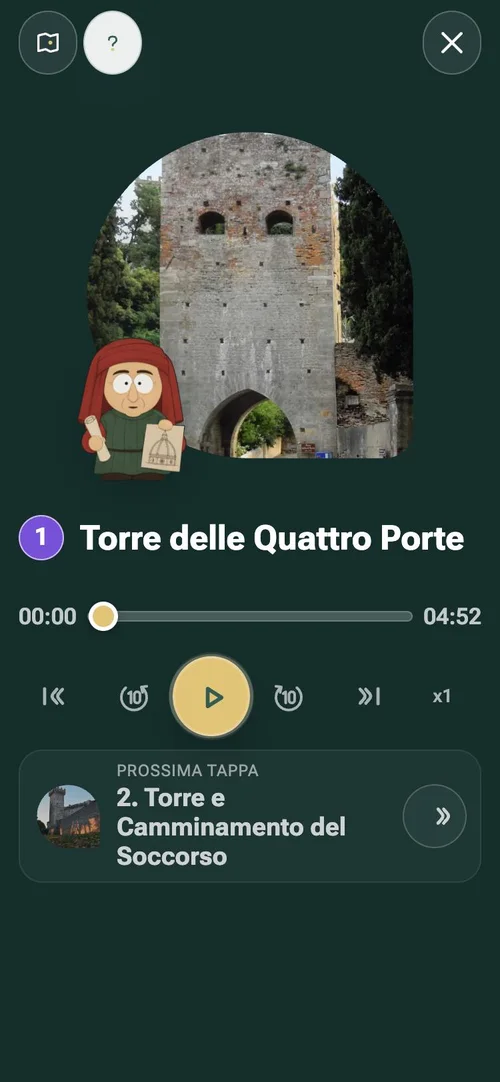
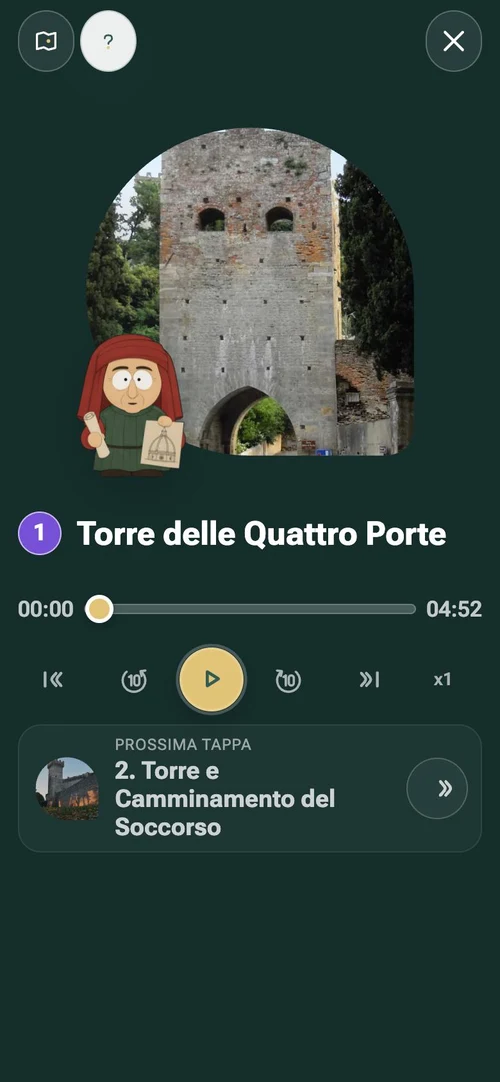
Telefoni: home, mappa e player aggiornati senza numeri; problemi su oro con numeri viola; team senza sottotitolo; una sola call to action sulle lingue

diff --git a/index.html b/index.html
@@ -678,6 +678,12 @@ img { display: block; max-width: 100%; }
   .phone, .phone--mid { flex: 0 0 68vw; width: 68vw; max-width: 300px; scroll-snap-align: center; }
 }
 
+/* ---------- problemi: oro del brand, numeri viola ---------- */
+#problemi { background: #e8c36d; }
+#problemi .eyebrow { color: #245c52; }
+#problemi .stat__num { color: #7d4fe0; }
+#problemi .stat__text, #problemi .problem__note, #problemi .stat__src { color: #173f39; }
+#problemi .problem + .problem { border-left-color: rgba(23,63,57,.35); }
 /* ---------- voci in tutte le lingue ---------- */
 .voices { display: grid; grid-template-columns: repeat(3, minmax(0, 1fr)); gap: 1rem; margin-top: 1.5rem; }
 .voice { background: #fff8ef; border-radius: 24px; padding: 1rem 1.1rem 1.1rem; }
@@ -770,14 +776,14 @@ img { display: block; max-width: 100%; }
         </p>
       </div>
       <div class="phones">
-        <figure class="phone"><div class="phone__frame"><img src="assets/app-lingua.webp" alt="Scelta della lingua all'avvio" width="500" height="1083" loading="lazy"></div><figcaption><span>1</span>Scegli la lingua</figcaption></figure>
-        <figure class="phone phone--mid"><div class="phone__frame"><img src="assets/app-mappa.webp" alt="Mappa con le tappe e player audio" width="500" height="1083" loading="lazy"></div><figcaption><span>2</span>Tocca una tappa</figcaption></figure>
-        <figure class="phone"><div class="phone__frame"><img src="assets/app-player.webp" alt="Player audio a schermo intero con la tappa" width="500" height="1083" loading="lazy"></div><figcaption><span>3</span>Ascolta e cammina</figcaption></figure>
+        <figure class="phone"><div class="phone__frame"><img src="assets/app-home.webp" alt="La home del percorso di Vicopisano, con Brunelleschi che dà il benvenuto" width="500" height="1082" loading="lazy"></div></figure>
+        <figure class="phone phone--mid"><div class="phone__frame"><img src="assets/app-mappa.webp" alt="La mappa con le tappe e il player audio" width="500" height="1082" loading="lazy"></div></figure>
+        <figure class="phone"><div class="phone__frame"><img src="assets/app-player.webp" alt="Il player audio a schermo intero con la prima tappa" width="500" height="1082" loading="lazy"></div></figure>
       </div>
     </div>
   </section>
 
-  <section class="section section--tinted" id="problemi">
+  <section class="section" id="problemi">
     <div class="wrap">
       <div class="section__head">
         <p class="eyebrow">Il problema</p>
@@ -785,7 +791,6 @@ img { display: block; max-width: 100%; }
       </div>
       <div class="problems">
         <article class="problem">
-          <div class="meter" role="img" aria-label="75 su 100"><span style="width:75%"></span></div>
           <div>
             <p class="stat__num">75%</p>
             <p class="stat__text">dei turisti visita solo il 4% dell'Italia.</p>
@@ -794,7 +799,6 @@ img { display: block; max-width: 100%; }
           </div>
         </article>
         <article class="problem">
-          <div class="meter" role="img" aria-label="47 su 100"><span style="width:47%"></span></div>
           <div>
             <p class="stat__num">47%</p>
             <p class="stat__text">degli europei parla inglese come lingua straniera.</p>
@@ -891,8 +895,7 @@ img { display: block; max-width: 100%; }
           </div>
       </div>
       <p class="story__cta">
-        <a class="btn" href="https://balestripietro-commits.github.io/vicopisano-travel-podcasting/?lang=it&amp;tappa=1" target="_blank" rel="noopener">Apri la tappa</a>
-        <a class="btn btn--ghost" href="https://balestripietro-commits.github.io/vicopisano-travel-podcasting/" target="_blank" rel="noopener">Apri il percorso</a>
+        <a class="btn" href="https://balestripietro-commits.github.io/vicopisano-travel-podcasting/" target="_blank" rel="noopener">Apri il percorso</a>
       </p>
     </div>
   </section>
@@ -900,12 +903,7 @@ img { display: block; max-width: 100%; }
   <section class="section" id="team">
     <div class="wrap">
       <div class="section__head">
-        <p class="eyebrow">Chi lo costruisce</p>
-        <h2>Due freelance, dall'idea al prototipo</h2>
-        <p class="section__intro">
-          Competenze diverse, nessuna divisione rigida dei ruoli: storie, contenuti,
-          tecnologie e prototipi li costruiamo insieme.
-        </p>
+        <h2>Chi lo costruisce</h2>
       </div>
       <div class="team">
         <article class="person">
